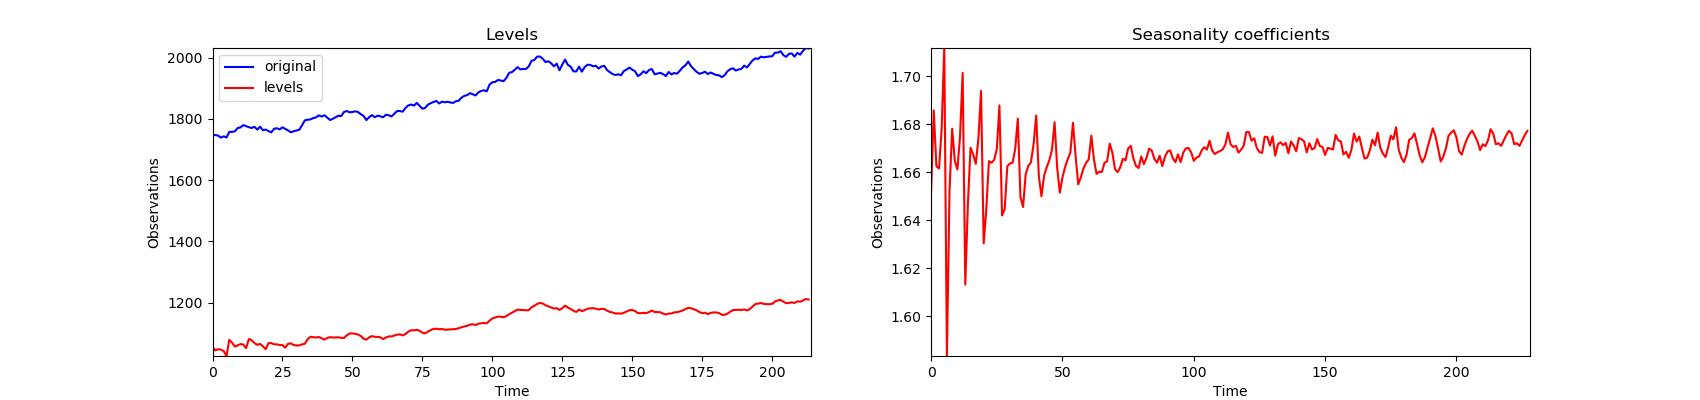
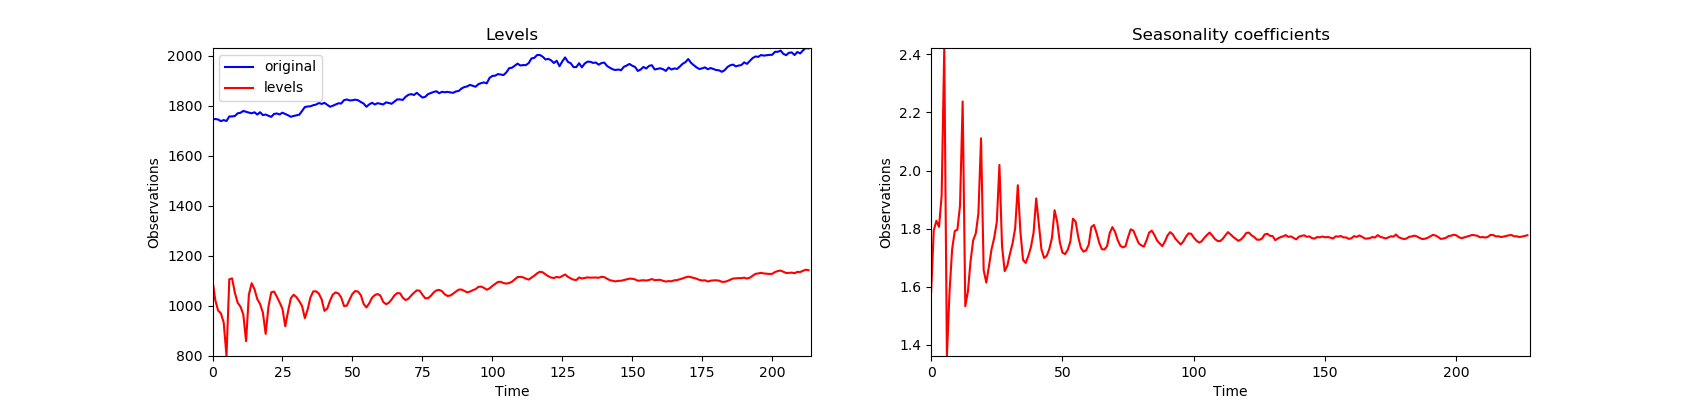
Different changes to manage to generate decent plot for D1 and nbeats

diff --git a/ts/benchmark/config.py b/ts/benchmark/config.py
@@ -23,7 +23,6 @@ def get_config(interval):
 
     if interval == "Quarterly":
         config.update({
-            "chop_val": 72,
             "variable": "Quarterly",
             "seasonality": 4,
             "output_size": 8,
@@ -35,11 +34,12 @@ def get_config(interval):
             "min_epochs_before_changing_lrate": 2,
             "lr_anneal_rate": 0.5,
             "lr_anneal_step": 5,
+            "chop_val": 72,
+            "min_samples": 70,
             #"sample_ids": [],
             "sample_ids": ["Q66"],
         })
         config.update({
-            "chop_val": 72,
             "variable": "Monthly",
             "seasonality": 12,
             "output_size": 18,
@@ -52,15 +52,12 @@ def get_config(interval):
             # "sample_ids": [],
             "lr_anneal_rate": 0.5,
             "lr_anneal_step": 5,
+            "chop_val": 72,
+            "min_samples": 70,
             "sample_ids": ["M1"],
         })
     elif interval == "Daily":
         config.update({
-            "stack_types": [BLOCK_TYPE.TREND, BLOCK_TYPE.SEASONALITY],
-            "thetas_dims": [2, 8],
-            "nb_blocks_per_stack": 3,
-            "hidden_layer_units": 128,
-            "share_weights_in_stack": False,
             "variable": "Daily",
             "seasonality": 7,
             "output_size": 14,
@@ -70,9 +67,10 @@ def get_config(interval):
             "lr_ratio": sqrt(10),
             "lr_tolerance_multip": 1.005,
             "min_epochs_before_changing_lrate": 2,
-            "dropout": 0.2,
+            "chop_val": 200,
+            "min_samples": 200,
             # "sample_ids": [],
-            "sample_ids": ["D404"],
+            "sample_ids": ["D1"],
         })
     elif interval == "Yearly":
 
@@ -92,6 +90,7 @@ def get_config(interval):
             "lr_tolerance_multip": 1.005,
             "min_epochs_before_changing_lrate": 2,
             "dropout": 0.2,
+            "chop_val": 25,
             "sample_ids": [],
             # "sample_ids": ["Y3974"],
         })
@@ -112,6 +111,7 @@ def get_config(interval):
             "lr_tolerance_multip": 1.005,
             "min_epochs_before_changing_lrate": 2,
             "dropout": 0.2,
+            "chop_val": 72,
             # "sample_ids": [],
             "sample_ids": ["W246"],
         })
@@ -132,6 +132,7 @@ def get_config(interval):
             "lr_tolerance_multip": 1.005,
             "min_epochs_before_changing_lrate": 2,
             "dropout": 0.2,
+            "chop_val": 72,
             # "sample_ids": [],
             "sample_ids": ["H344"],
         })

diff --git a/ts/abstract_trainer.py b/ts/abstract_trainer.py
@@ -65,19 +65,7 @@ class BaseTrainer(nn.Module):
         prev_loss = float("-inf")
         for e in range(self.max_epochs):
 
-            if self.reload != SAVE_LOAD_TYPE.NO_ACTION:
-                epoch_loss = 0
-            else:
-                epoch_loss = self.train()
-
-            if self.save_model_enabled() and epoch_loss < max_loss:
-                print("Loss decreased, saving model!")
-                file_path = Path(".") / ("models/" + self.model_name)
-                if self.config["save_model"] == SAVE_LOAD_TYPE.MODEL:
-                    save_model(file_path, self.model, self.optimizer, self.run_id, self.add_run_id)
-                elif self.config["save_model"] == SAVE_LOAD_TYPE.MODEL_PARAMETERS:
-                    save_model_parameters(file_path, self.model, self.optimizer, self.run_id, self.add_run_id)
-                max_loss = epoch_loss
+            epoch_loss = self.train()
 
             file_path = self.csv_save_path / "grouped_results" / self.run_id / self.prod_str
             file_path_validation_loss = file_path / "validation_losses.csv"
@@ -93,6 +81,15 @@ class BaseTrainer(nn.Module):
             epoch_val_loss = self.val(file_path, testing=True, debugging=False, figure_path=self.figure_path)
             with open(file_path_validation_loss, "a") as f:
                 f.write(",".join([str(e), str(epoch_loss), str(epoch_val_loss)]) + "\n")
+
+            if self.save_model_enabled() and epoch_val_loss < max_loss:
+                print("Loss decreased, saving model!")
+                file_path = Path(".") / ("models/" + self.model_name)
+                if self.config["save_model"] == SAVE_LOAD_TYPE.MODEL:
+                    save_model(file_path, self.model, self.optimizer, self.run_id, self.add_run_id)
+                elif self.config["save_model"] == SAVE_LOAD_TYPE.MODEL_PARAMETERS:
+                    save_model_parameters(file_path, self.model, self.optimizer, self.run_id, self.add_run_id)
+                max_loss = epoch_val_loss
 
             self.scheduler.step()
             # self.scheduler.step(epoch_val_loss)

diff --git a/ts/n_beats/config.py b/ts/n_beats/config.py
@@ -21,7 +21,7 @@ def get_config(interval):
         "sample": True,
         "reload": SAVE_LOAD_TYPE.NO_ACTION,
         "add_run_id": False,
-        "save_model": SAVE_LOAD_TYPE.NO_ACTION,
+        "save_model": SAVE_LOAD_TYPE.MODEL_PARAMETERS,
         "plot_ts": True,
     }
 
@@ -52,7 +52,7 @@ def get_config(interval):
             "stack_types": [BLOCK_TYPE.TREND, BLOCK_TYPE.SEASONALITY],
             "thetas_dims": [2, 8],
             "nb_blocks_per_stack": 3,
-            "hidden_layer_units": 512,
+            "hidden_layer_units": 256,
             "share_weights_in_stack": True,
             "chop_val": 72,
             "variable": "Monthly",
@@ -75,7 +75,7 @@ def get_config(interval):
             "stack_types": [BLOCK_TYPE.TREND, BLOCK_TYPE.SEASONALITY],
             "thetas_dims": [2, 8],
             "nb_blocks_per_stack": 3,
-            "hidden_layer_units": 128,
+            "hidden_layer_units": 256,
             "share_weights_in_stack": False,
             "variable": "Daily",
             "seasonality": 7,
@@ -90,7 +90,7 @@ def get_config(interval):
             "lr_anneal_step": 5,
             "dropout": 0.2,
             # "sample_ids": [],
-            "sample_ids": ["D404"],
+            "sample_ids": ["D1"],
         })
     elif interval == "Yearly":
 

diff --git a/ts/benchmark/trainer.py b/ts/benchmark/trainer.py
@@ -29,7 +29,7 @@ class Trainer:
         (train, val, test, info_cat, ts_labels, idx) = next(iter(self.data_loader))
 
         data_y = np.squeeze(torch.cat((train, val), dim=1))
-        N_samples = min(50, data_y.shape[0])
+        N_samples = min(self.config["min_samples"], data_y.shape[0])
         sample_indices = np.random.choice(data_y.shape[0], N_samples, replace=False)
         data_x = np.arange(data_y.shape[0], dtype=float)
         train_x = torch.from_numpy(data_x[sample_indices]).float()
@@ -65,6 +65,8 @@ class Trainer:
         # The gpytorch.settings.fast_pred_var flag activates LOVE (for fast variances)
         with torch.no_grad(), gpytorch.settings.fast_pred_var():
             # Make predictions
+
+
             observed_pred = likelihood(model(test_x))
 
             # Initialize plot

diff --git a/ts/benchmark/main.py b/ts/benchmark/main.py
@@ -22,10 +22,8 @@ def main():
     FIGURE_PATH = Path("figures-temp/" + MODEL_TYPE.BENCHMARK.value)
 
     print("Loading config")
-    config = get_config("Quarterly")
+    config = get_config("Daily")
     print("Frequency:{}".format(config["variable"]))
-    forecast_length = config["output_size"]
-    backcast_length = 1 * forecast_length
 
     print("loading data")
     info = pd.read_csv(str(BASE_DIR / "M4info.csv"))

diff --git a/ts/n_beats/main.py b/ts/n_beats/main.py
@@ -26,7 +26,7 @@ def main():
     FIGURE_PATH = Path("figures-temp/" + MODEL_TYPE.NBEATS.value)
 
     print("Loading config")
-    config = get_config("Monthly")
+    config = get_config("Daily")
     print("Frequency:{}".format(config["variable"]))
     forecast_length = config["output_size"]
     backcast_length = 1 * forecast_length

diff --git a/ts/utils/helper_funcs.py b/ts/utils/helper_funcs.py
@@ -311,7 +311,7 @@ def plot_ts(original_ts, predicted_ts, ts_labels, cats, path, number_to_plot=1):
     plt.savefig(path / "time_series.png")
     plt.tight_layout()
     sns.despine()
-    plt.show()
+    #plt.show()
 
 
 def plot_levels_seasonalities(train, levels, seasonalities, path=None):

diff --git a/ts/es_rnn/main.py b/ts/es_rnn/main.py
@@ -30,7 +30,7 @@ LOG_DIR = Path("logs/" + MODEL_TYPE.ESRNN.value)
 FIGURE_PATH = Path("figures-temp/" + MODEL_TYPE.ESRNN.value)
 
 print("loading config")
-config = get_config("Monthly")
+config = get_config("Daily")
 print("Frequency:{}".format(config["variable"]))
 
 print("loading data")
